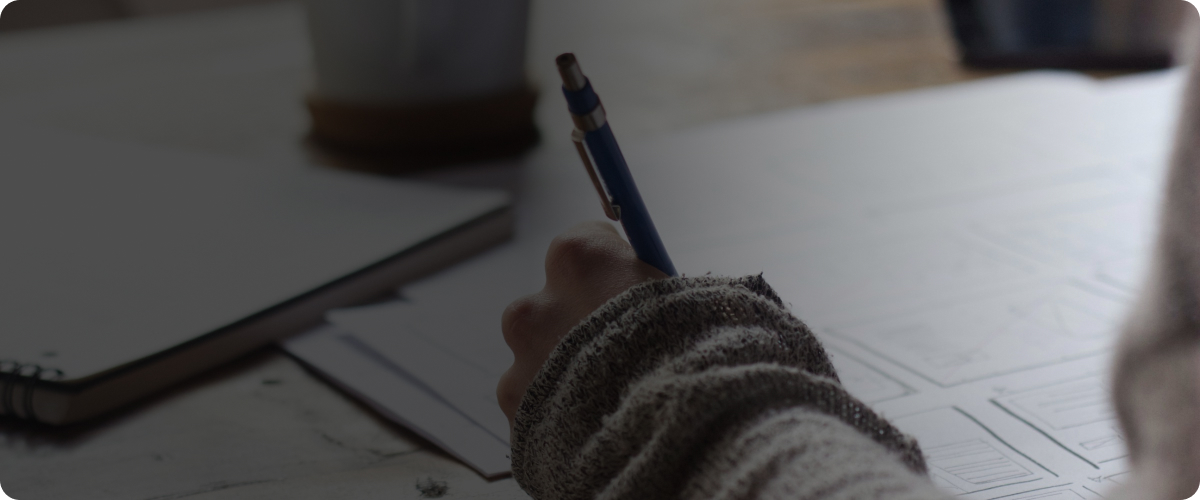
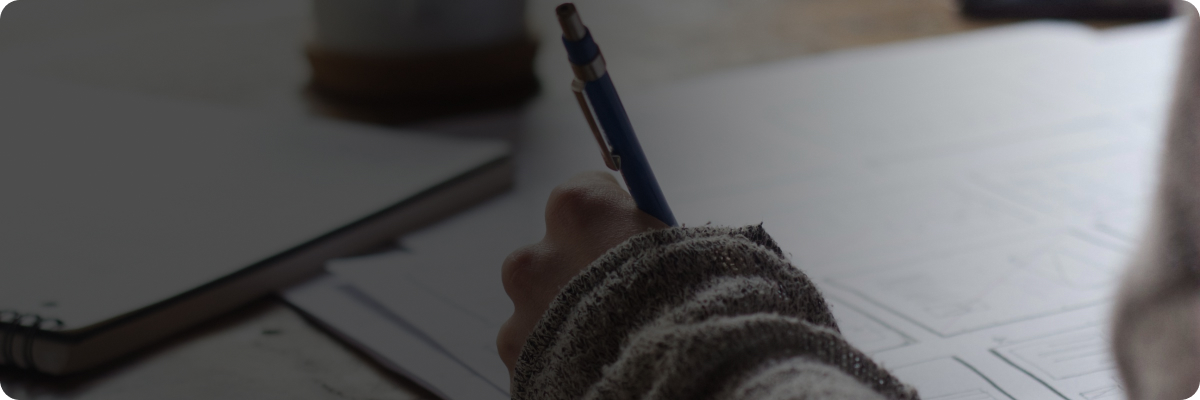
edit hero layout

diff --git a/src/layouts/Bantuan/Interview/InterviewHero.jsx b/src/layouts/Bantuan/Interview/InterviewHero.jsx
@@ -3,14 +3,14 @@ import Button from "/src/components/Button";
 
 const InterviewHero = () => {
   return (
-    <div className="container py-10 h-[650px]">
+    <div className="container pt-10 pb-20">
       <div
         style={{
-          backgroundImage: "url(/assets/images/bantuan-bg/interview-hero.webp)",
+          backgroundImage: "url(/assets/images/bantuan-bg/interview-hero.jpg)",
           backgroundSize: "cover",
           backgroundRepeat: "no-repeat",
         }}
-        className="w-full h-full flex flex-col justify-center rounded-3xl"
+        className="w-full h-[400px] flex flex-col justify-center rounded-3xl"
       >
         <div className="text-white max-w-[480px] py-[102px] ml-20 flex flex-col gap-10 items-start">
           <div className="flex flex-col gap-6">
@@ -20,7 +20,7 @@ const InterviewHero = () => {
               keterampilan interview dan mencapai kesuksesan karir
             </p>
           </div>
-          <Button variant="default" className="border-none">
+          <Button variant="default" className="border-none px-10 py-4">
             <a
               href="https://meet.google.com/"
               target="_blank"

diff --git a/src/layouts/Bantuan/CV/CVHero.jsx b/src/layouts/Bantuan/CV/CVHero.jsx
@@ -29,16 +29,16 @@ const CVHero = () => {
   }, [isCVSubmitted]);
 
   return (
-    <section className="container py-10 h-[650px]">
+    <section className="container pt-10 pb-20">
       <div
         style={{
           backgroundImage: "url(/assets/images/bantuan-bg/cv-hero.jpg)",
           backgroundSize: "cover",
           backgroundRepeat: "no-repeat",
         }}
-        className="w-full h-full flex flex-col justify-center"
+        className="h-[400px] py-0 flex flex-col justify-center rounded-3xl"
       >
-        <div className="text-white max-w-[480px] py-[102px] ml-20 flex flex-col gap-10 items-start">
+        <div className="text-white max-w-[500px] ml-20 flex flex-col gap-10 items-start">
           <div className="flex flex-col gap-6">
             <h1>Dapatkan review CV dan surat lamaran</h1>
             <p>

diff --git a/src/components/TipsSection.jsx b/src/components/TipsSection.jsx
@@ -18,7 +18,7 @@ const TipsSection = ({ heading, children, images }) => {
   };
   return (
     <section className="container pb-20">
-      <div className="flex flex-col gap-16">
+      <div className="flex flex-col gap-10">
         <div className="flex justify-between items-center">
           <h2 className="">{heading}</h2>
           <div className="flex gap-2.5">

diff --git a/src/components/EventSection.jsx b/src/components/EventSection.jsx
@@ -17,7 +17,7 @@ const EventSection = ({ heading, subheading, to, children }) => {
             <Link to={to}>Lihat Selengkapnya</Link>
           </Button>
         </div>
-        <div className="flex border-2 border-black overflow-x-auto">
+        <div className="flex rounded-3xl overflow-x-auto">
           {children}
         </div>
       </div>
